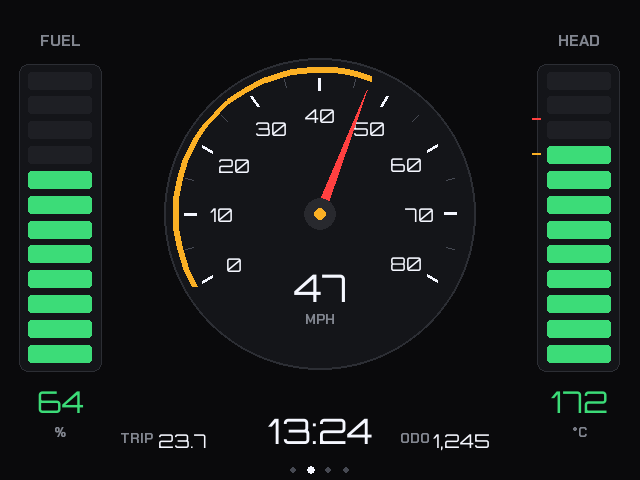
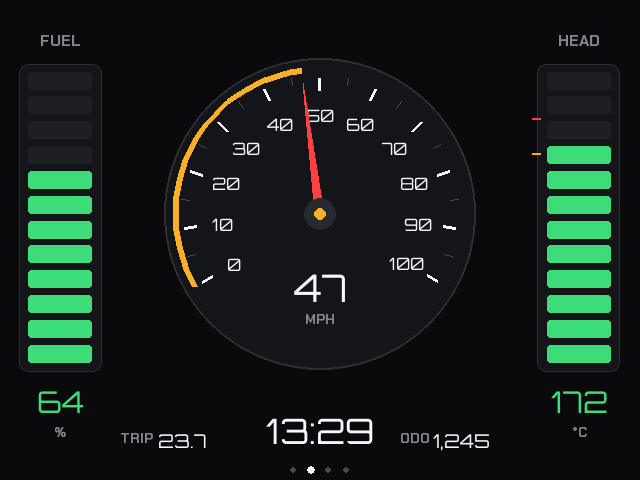
## Speedo now goes to 100 mph, with a km/h option The Cruise page dial now runs to 100 mph, and you can switch the whole dashboard between mph and km/h. The built-in self-test passes and I checked previews at 640×480. It hasn't been tried on the Pi yet.
- **Dial:** 0–100 mph, numbered every 10. In km/h it becomes 0–160 km/h, numbered every 20, so the needle sits in the same place at the same real speed.
- **Switching units:** go to Settings, press SELECT until **SWITCH TO KM/H** is highlighted, then hold SELECT for a second. The same button then reads **SWITCH TO MPH** to switch back. Your choice is saved, so it stays after a restart.
- **What changes in km/h:**
  - big speed on the Ride page
  - the Cruise dial and its small speed readout
  - trip and odometer (in km)
  - the Rides list and the full-screen ride view: distance, average and top speed
- Your miles are still saved as miles underneath, so you can switch back and forth without losing anything. The `rides.csv` export stays in miles.

**Example:** at 47 mph the dial reads 47 with MPH and a 23.7 trip. Switched to km/h, the same moment reads 76 km/h with a 38.2 km trip. The examples are in `rb250_dashboard/previews/` inside `RB250-PiZero2W.zip`: `cruise_640.png`, `cruise_kmh_640.png` and `settings_kmh_640.png`.

To update: Save to GitHub, download the ZIP on the Pi, then run `bash install.sh` in the `rb250_dashboard` folder.

Next Action Items:
- **Start-Up Page**: Let me choose whether the dashboard starts on the Ride page or the Cruise page
- **Fuel Range Estimate**: Show roughly how many miles are left in the tank on the Cruise page
- **Personal Bests**: Show my all-time top speed, highest revs and longest ride at the top of the Rides page
[…]

diff --git a/rb250_dashboard/ui.py b/rb250_dashboard/ui.py
@@ -3,6 +3,7 @@ import math
 import time
 import pygame
 import config as cfg
+import units as U
 from theme import (WHITE, AMBER, RED, GREEN, DIM, FAINT, BG, PANEL, EDGE, SEG_OFF,
                    blink, text, fuel_color, cht_color, volt_color, rpm_zone_color,
                    cover_image)
@@ -91,10 +92,10 @@ def ride_screen(surf, sc, t, clock_str):
         text(surf, sc, "NO RPM SIGNAL", 17, AMBER, topleft=(24, 200))
 
     # speed
-    spd = None if t.speed is None else round(t.speed)
+    spd = None if t.speed is None else round(U.spd(t.speed))
     text(surf, sc, NO_SIGNAL if spd is None else spd, 170, WHITE, digital=True,
          midbottom=(235, 400))
-    text(surf, sc, "MPH", 24, DIM, midtop=(235, 402))
+    text(surf, sc, U.spd_label(), 24, DIM, midtop=(235, 402))
 
     # right column gauges
     hot = t.cht is not None and t.cht > cfg.CHT_RED
@@ -111,10 +112,10 @@ def ride_screen(surf, sc, t, clock_str):
 
     # miles strip
     text(surf, sc, "TRIP", 18, DIM, bottomleft=(24, 462))
-    text(surf, sc, f"{t.trip:.1f}", 24, WHITE, digital=True, bottomleft=(72, 466))
+    text(surf, sc, f"{U.dist(t.trip):.1f}", 24, WHITE, digital=True, bottomleft=(72, 466))
     text(surf, sc, "ODO", 18, DIM, bottomleft=(470, 462))
-    text(surf, sc, f"{t.odo:,.0f}", 24, WHITE, digital=True, bottomleft=(512, 466))
-    text(surf, sc, "MI", 18, DIM, bottomright=(776, 462))
+    text(surf, sc, f"{U.dist(t.odo):,.0f}", 24, WHITE, digital=True, bottomleft=(512, 466))
+    text(surf, sc, U.dist_label(), 18, DIM, bottomright=(776, 462))
 
     if hot:
         warn_banner(surf, sc, "ENGINE HOT - EASE OFF")
@@ -147,10 +148,12 @@ def vbar(surf, sc, x, label, value, unit, frac, color, marks=(), flash=False):
 
 
 def speed_dial(surf, sc, mph):
-    """Large analog speedo. 0..DIAL_MAX over a 240 degree sweep."""
+    """Large analog speedo over a 240 degree sweep (0-100 mph or 0-160 km/h)."""
+    mph = U.spd(mph)  # now in display units
     cx, cy = sc.p(400, 214)
     rad = sc.n(196)
-    top = cfg.DIAL_MAX_MPH
+    top = U.dial_max()
+    minor, major_step = (10, 20) if U.kmh else (5, 10)
     a0, sweep = math.radians(210), math.radians(240)
 
     def at(v, r):
@@ -164,12 +167,12 @@ def speed_dial(surf, sc, mph):
         steps = max(2, int(60 * min(1.0, mph / top)))
         pts = [at(mph * i / steps, rad - sc.n(14)) for i in range(steps + 1)]
         pygame.draw.lines(surf, AMBER, False, pts, sc.n(8))
-    for v in range(0, top + 1, 5):
-        major = v % 10 == 0
+    for v in range(0, top + 1, minor):
+        major = v % major_step == 0
         pygame.draw.line(surf, WHITE if major else FAINT, at(v, rad - sc.n(26 if major else 22)),
                          at(v, rad - sc.n(40 if major else 32)), sc.n(4 if major else 2))
         if major:
-            lbl = sc.font(24, True).render(str(v), True, WHITE)
+            lbl = sc.font(22, True).render(str(v), True, WHITE)
             surf.blit(lbl, lbl.get_rect(center=at(v, rad - sc.n(72))))
     # needle
     if mph is not None:
@@ -185,7 +188,7 @@ def speed_dial(surf, sc, mph):
     val = NO_SIGNAL if mph is None else f"{round(mph)}"
     img = sc.font(48, True).render(val, True, WHITE)
     surf.blit(img, img.get_rect(center=(cx, cy + sc.n(92))))
-    unit = sc.font(18).render("MPH" if mph is not None else "NO GPS", True,
+    unit = sc.font(18).render(U.spd_label() if mph is not None else "NO GPS", True,
                               DIM if mph is not None else AMBER)
     surf.blit(unit, unit.get_rect(center=(cx, cy + sc.n(132))))
 
@@ -204,9 +207,9 @@ def cruise_screen(surf, sc, t, clock_str):
     speed_dial(surf, sc, t.speed)
     text(surf, sc, clock_str, 44, WHITE, digital=True, midbottom=(400, 452))
     text(surf, sc, "TRIP", 18, DIM, bottomleft=(150, 448))
-    text(surf, sc, f"{t.trip:.1f}", 24, WHITE, digital=True, bottomleft=(198, 452))
+    text(surf, sc, f"{U.dist(t.trip):.1f}", 24, WHITE, digital=True, bottomleft=(198, 452))
     text(surf, sc, "ODO", 18, DIM, bottomleft=(500, 448))
-    text(surf, sc, f"{t.odo:,.0f}", 24, WHITE, digital=True, bottomleft=(542, 452))
+    text(surf, sc, f"{U.dist(t.odo):,.0f}", 24, WHITE, digital=True, bottomleft=(542, 452))
 
 
 def warn_banner(surf, sc, msg):
@@ -230,30 +233,37 @@ def settings_screen(surf, sc, app):
     btns = []
     t = app.telemetry
 
-    text(surf, sc, "TRIP", 18, DIM, midleft=(24, 96))
-    text(surf, sc, f"{t.trip:.1f} MI", 26, WHITE, digital=True, midleft=(150, 96))
-    btns.append((button(surf, sc, 560, 72, 216, 50, "RESET TRIP"), t.reset_trip))
+    text(surf, sc, "TRIP", 18, DIM, midleft=(24, 86))
+    text(surf, sc, f"{U.dist(t.trip):.1f} {U.dist_label()}", 26, WHITE, digital=True,
+         midleft=(150, 86))
+    btns.append((button(surf, sc, 560, 64, 216, 44, "RESET TRIP"), t.reset_trip))
 
-    text(surf, sc, "BRIGHTNESS", 18, DIM, midleft=(24, 166))
-    text(surf, sc, f"{app.brightness}%", 26, WHITE, digital=True, midleft=(230, 166))
-    btns.append((button(surf, sc, 560, 142, 100, 50, "-"), lambda: app.set_brightness(-20)))
-    btns.append((button(surf, sc, 676, 142, 100, 50, "+"), lambda: app.set_brightness(20)))
+    text(surf, sc, "BRIGHTNESS", 18, DIM, midleft=(24, 142))
+    text(surf, sc, f"{app.brightness}%", 26, WHITE, digital=True, midleft=(230, 142))
+    btns.append((button(surf, sc, 560, 120, 100, 44, "-"), lambda: app.set_brightness(-20)))
+    btns.append((button(surf, sc, 676, 120, 100, 44, "+"), lambda: app.set_brightness(20)))
 
-    text(surf, sc, "SENSORS", 18, DIM, midleft=(24, 236))
+    text(surf, sc, "UNITS", 18, DIM, midleft=(24, 198))
+    text(surf, sc, "KM/H + KM" if U.kmh else "MPH + MILES", 26, WHITE, digital=True,
+         midleft=(230, 198))
+    btns.append((button(surf, sc, 560, 176, 216, 44, "SWITCH TO MPH" if U.kmh else "SWITCH TO KM/H"),
+                 U.toggle))
+
+    text(surf, sc, "SENSORS", 18, DIM, midleft=(24, 250))
     x = 160
     for name, state, ok in app.sensors.status():
         col = GREEN if ok else (DIM if state == "OFF" else AMBER)
-        r = text(surf, sc, f"{name} {state}", 18, col, midleft=(x, 236))
+        r = text(surf, sc, f"{name} {state}", 18, col, midleft=(x, 250))
         x = sc.to_design(r.midright)[0] + 26
 
     if t.ups is None:
-        text(surf, sc, "UPS BATTERY", 18, DIM, midleft=(24, 290))
-        text(surf, sc, "NO SIGNAL", 18, AMBER, midleft=(230, 290))
+        text(surf, sc, "UPS BATTERY", 18, DIM, midleft=(24, 294))
+        text(surf, sc, "NO SIGNAL", 18, AMBER, midleft=(230, 294))
     else:
         uv, up = t.ups
         ucol = RED if up < cfg.UPS_LOW_PCT else (AMBER if up < 40 else GREEN)
-        text(surf, sc, "UPS BATTERY", 18, DIM, midleft=(24, 290))
-        text(surf, sc, f"{up:.0f}%  {uv:.2f}V", 24, ucol, digital=True, midleft=(230, 290))
+        text(surf, sc, "UPS BATTERY", 18, DIM, midleft=(24, 294))
+        text(surf, sc, f"{up:.0f}%  {uv:.2f}V", 24, ucol, digital=True, midleft=(230, 294))
 
     volt = t.volt
     auto = "ON" if cfg.POWER_LOSS_SHUTDOWN else "OFF"
@@ -263,7 +273,7 @@ def settings_screen(surf, sc, app):
         text(surf, sc, "NO VOLTAGE READING - AUTO SHUTDOWN CAN'T WORK", 15, AMBER,
              midleft=(24, 352))
 
-    btns.append((button(surf, sc, 250, 376, 300, 60, "POWER OFF", fill=(170, 24, 24)),
+    btns.append((button(surf, sc, 250, 378, 300, 56, "POWER OFF", fill=(170, 24, 24)),
                  app.request_shutdown))
     text(surf, sc, "SELECT = move    HOLD SELECT = press", 15, FAINT, midright=(776, 452))
     return btns
@@ -276,8 +286,10 @@ def rides_screen(surf, sc, t, sel=0):
     text(surf, sc, "RIDES", 24, AMBER, digital=True, midleft=(24, 30))
     hist = t.rides.history()
     total = sum(r["miles"] for r in hist)
-    text(surf, sc, f"{len(hist)} rides  {total:,.0f} mi", 18, DIM, midright=(776, 30))
-    cols = [(24, "DATE"), (190, "MILES"), (290, "TIME"), (390, "AVG"), (480, "TOP"),
+    text(surf, sc, f"{len(hist)} rides  {U.dist(total):,.0f} {U.dist_label().lower()}", 18, DIM,
+         midright=(776, 30))
+    cols = [(24, "DATE"), (190, "MILES" if not U.kmh else "KM"), (290, "TIME"), (390, "AVG"),
+            (480, "TOP"),
             (570, "PEAK RPM"), (700, "MAX °C")]
     for x, h in cols:
         text(surf, sc, h, 16, DIM, midleft=(x, 78))
@@ -300,8 +312,8 @@ def rides_screen(surf, sc, t, sel=0):
         when = "NOW" if live else time.strftime("%d %b %H:%M", time.localtime(r["start"]))
         mins = int(r["secs"] // 60)
         cht = r.get("max_cht")
-        vals = [when, f"{r['miles']:.1f}", f"{mins // 60}:{mins % 60:02d}", f"{avg_mph(r):.0f}",
-                f"{r['top_mph']:.0f}", f"{r['peak_rpm']:.0f}", NO_SIGNAL if cht is None else f"{cht:.0f}"]
+        vals = [when, f"{U.dist(r['miles']):.1f}", f"{mins // 60}:{mins % 60:02d}",
+                f"{U.spd(avg_mph(r)):.0f}", f"{U.spd(r['top_mph']):.0f}", f"{r['peak_rpm']:.0f}", NO_SIGNAL if cht is None else f"{cht:.0f}"]
         for (x, _), v in zip(cols, vals):
             col = AMBER if live and x == 24 else WHITE
             if x == 700 and cht is not None:
@@ -336,10 +348,10 @@ def ride_detail_screen(surf, sc, t, sel):
     cht = r.get("max_cht")
     w, h, gx, gy = 240, 160, 16, 16
     tiles = [
-        ("DISTANCE", f"{r['miles']:.1f}", "MI", WHITE),
+        ("DISTANCE", f"{U.dist(r['miles']):.1f}", U.dist_label(), WHITE),
         ("RIDE TIME", f"{mins // 60}:{mins % 60:02d}", "", WHITE),
-        ("AVERAGE", f"{avg_mph(r):.0f}", "MPH", WHITE),
-        ("TOP SPEED", f"{r['top_mph']:.0f}", "MPH", WHITE),
+        ("AVERAGE", f"{U.spd(avg_mph(r)):.0f}", U.spd_label(), WHITE),
+        ("TOP SPEED", f"{U.spd(r['top_mph']):.0f}", U.spd_label(), WHITE),
         ("PEAK REVS", f"{r['peak_rpm']:.0f}", "RPM",
          RED if r["peak_rpm"] >= cfg.REDLINE else WHITE),
         ("HOTTEST HEAD", NO_SIGNAL if cht is None else f"{cht:.0f}", "°C", cht_color(cht)),

diff --git a/rb250_dashboard/selftest.py b/rb250_dashboard/selftest.py
@@ -211,11 +211,28 @@ def run():
     app4.draw(screen, sc, time.time()); app4.button("select"); app4.button("hold")
     assert app4.brightness == 80, app4.brightness
 
+    # units: MPH <-> KM/H, saved, dial top 100 mph / 160 km/h, miles stay stored as miles
+    import units
+    units.load(os.path.join(tmp, "settings.json"))
+    assert not units.kmh and units.dial_max() == 100
+    units.toggle()
+    assert units.kmh and units.dial_max() == 160 and abs(units.spd(100) - 160.9) < 0.1
+    units.load()
+    assert units.kmh, "km/h choice not saved"
+    for page in range(4):
+        app3 = _app(FakeSensors()); app3.page = page
+        app3.draw(screen, sc, time.time())
+    units.toggle()
+    units.load()
+    assert not units.kmh
+
     # settings buttons + confirm
     app2.page = m.SETTINGS
     app2.draw(screen, sc, time.time())
+    import units as _u
     for rect, cb in app2.buttons:
-        cb()
+        if cb is not _u.toggle:
+            cb()
     assert app2.confirm
     app2.confirm = False
     # graphics
@@ -231,6 +248,9 @@ def preview(out="/tmp/rb250_previews"):
     os.makedirs(out, exist_ok=True)
     telemetry.ODO_PATH = os.path.join(out, "odo.json")
     cfg.RIDES_FILE = os.path.join(out, "rides.json")
+    import units
+    units.load(os.path.join(out, "settings.json"))
+    units.kmh = False
     now = time.time()
     demo = [(now - 86400 * d - 3600 * h, m, s_, top, rpm, c) for d, h, m, s_, top, rpm, c in
             [(1, 2, 23.4, 3100, 58, 8240, 196), (2, 5, 8.2, 1260, 47, 7650, 184),
@@ -266,6 +286,15 @@ def preview(out="/tmp/rb250_previews"):
             app.detail = name == "ride_detail"
             app.draw(screen, sc, time.time())
             pygame.image.save(screen, f"{out}/{name}_{size[0]}.png")
+        units.kmh = True
+        for name, page in (("cruise_kmh", 1), ("settings_kmh", 3), ("ride_kmh", 0)):
+            app = _app(FakeSensors(speed=47))
+            app.telemetry.odo, app.telemetry.trip = 1245.3, 23.7
+            _settle(app)
+            app.page = page
+            app.draw(screen, sc, time.time())
+            pygame.image.save(screen, f"{out}/{name}_{size[0]}.png")
+        units.kmh = False
         app = _app(FakeSensors())
         app.boot_start = time.time() - 1.6
         app.draw(screen, sc, time.time())

diff --git a/rb250_dashboard/units.py b/rb250_dashboard/units.py
@@ -1,0 +1,50 @@
+"""Display units (MPH / KM/H). Everything is stored in miles; this only
+converts what's shown. The choice is saved in ~/.rb250/settings.json."""
+import json
+import os
+
+KM = 1.609344
+PATH = os.path.expanduser("~/.rb250/settings.json")
+kmh = False
+
+
+def load(path=None):
+    global kmh, PATH
+    PATH = path or PATH
+    try:
+        with open(PATH) as fh:
+            kmh = json.load(fh).get("units") == "kmh"
+    except Exception:
+        kmh = False
+
+
+def toggle():
+    global kmh
+    kmh = not kmh
+    try:
+        os.makedirs(os.path.dirname(PATH), exist_ok=True)
+        with open(PATH, "w") as fh:
+            json.dump({"units": "kmh" if kmh else "mph"}, fh)
+    except Exception as e:
+        print(f"[units] could not save ({e})")
+
+
+def spd(mph):
+    return None if mph is None else (mph * KM if kmh else mph)
+
+
+def dist(mi):
+    return mi * KM if kmh else mi
+
+
+def spd_label():
+    return "KM/H" if kmh else "MPH"
+
+
+def dist_label():
+    return "KM" if kmh else "MI"
+
+
+def dial_max():
+    """Top of the speedo: 100 mph or 160 km/h."""
+    return 160 if kmh else 100

diff --git a/rb250_dashboard/main.py b/rb250_dashboard/main.py
@@ -23,6 +23,7 @@ import config as cfg  # noqa: E402
 import ui  # noqa: E402
 from theme import Scaler  # noqa: E402
 from telemetry import Telemetry  # noqa: E402
+import units  # noqa: E402
 
 BOOT_SECONDS = 2.6
 GOODBYE_SECONDS = 3.0
@@ -245,6 +246,7 @@ def main():
 
     from sensors import Sensors
     from buttons import Buttons
+    units.load()
     app = App(Sensors())
     btns = Buttons()
     clock = pygame.time.Clock()

diff --git a/rb250_dashboard/config.py b/rb250_dashboard/config.py
@@ -7,7 +7,6 @@ Edit values here, then:  sudo systemctl restart rb250-dashboard
 REDLINE = 8500
 SHIFT_RPM = 7800
 RPM_SCALE_MAX = 10000
-DIAL_MAX_MPH = 80        # top of the cruise-page speed dial
 CHT_BAR_MAX = 250        # top of the cruise-page temp bar (degC)
 
 # --- Colour limits (traffic lights) ---

diff --git a/memory/PRD.md b/memory/PRD.md
@@ -31,6 +31,7 @@ UPS HAT keeps the Pi up; auto-shutdown when the switched-12V voltage sensor drop
 - 2026-06: Screen confirmed = Newhaven NHD-3.5-HDMI-HR-RSXP 640x480 HDMI, no touch. Scaler now stretches (sx/sy) to fill any aspect. Two GPIO buttons (`buttons.py`, gpiozero, pull-ups): NEXT BCM26/pin37 cycles pages; SELECT BCM16/pin36 = scroll rides / move highlight, hold 1s = press; confirm defaults to CANCEL. Keyboard N/Space/Enter mirrors for laptop.
 - 2026-06: Ride detail view: Rides page SELECT moves a highlight row by row (auto pages, wraps), HOLD opens the ride full-screen (6 big tiles: distance, time, avg, top, peak revs red≥redline, hottest head CHT-coloured); in detail SELECT = older ride, HOLD/NEXT = back. Previews in rb250_dashboard/previews/.
 - 2026-06: CRUISE page (page 2 of 4: Ride → Cruise → Rides → Settings): large analog speed dial 0–80 (DIAL_MAX_MPH) with needle, lit arc + small digital readout; wide vertical 12-segment fuel bar left and head-temp bar right (0–250°C, amber/red limit ticks, traffic colours, flash at red); larger clock centre-bottom; trip + odo. Page constants RIDE/CRUISE/RIDES/SETTINGS in main.py.
+- 2026-06: Speed dial max 100 mph. Units switch (`units.py`): Settings → SWITCH TO KM/H/MPH, saved in ~/.rb250/settings.json; converts speed, dial (0–160 km/h, labels every 20), trip/odo, rides list + detail; data stays stored in miles (rides.csv stays in miles).
 
 ## Backlog
 - P0: user builds wake circuit + verifies wake from halt on bench

diff --git a/rb250_dashboard/README.md b/rb250_dashboard/README.md
@@ -23,12 +23,12 @@ rm -f ~/.rb250/odometer.json && sudo systemctl restart rb250-dashboard
 ## Screens
 - **Ride**: RPM bar 1–10k + digital RPM + peak marker, big MPH, head temp,
   fuel, battery, trip + odometer. GPS status top centre.
-- **Cruise** (NEXT button): long-ride view — big analog speedo, tall fuel bar
+- **Cruise** (NEXT button): long-ride view — big analog speedo (0–100 mph / 0–160 km/h), tall fuel bar
   left, tall head-temp bar right (amber/red limit ticks), clock, trip + odo.
 - **Rides** (NEXT again): every ride (ignition on → off) with date, miles,
   time, average + top speed, peak revs and hottest head temp. Rides under
   0.1 mile aren't kept. The clock and dates are set from GPS, so no Wi-Fi needed.
-- **Settings** (NEXT once more): reset trip, brightness, sensor status,
+- **Settings** (NEXT once more): reset trip, brightness, MPH ↔ KM/H, sensor status,
   auto-shutdown status, POWER OFF.
 
 ## Buttons
